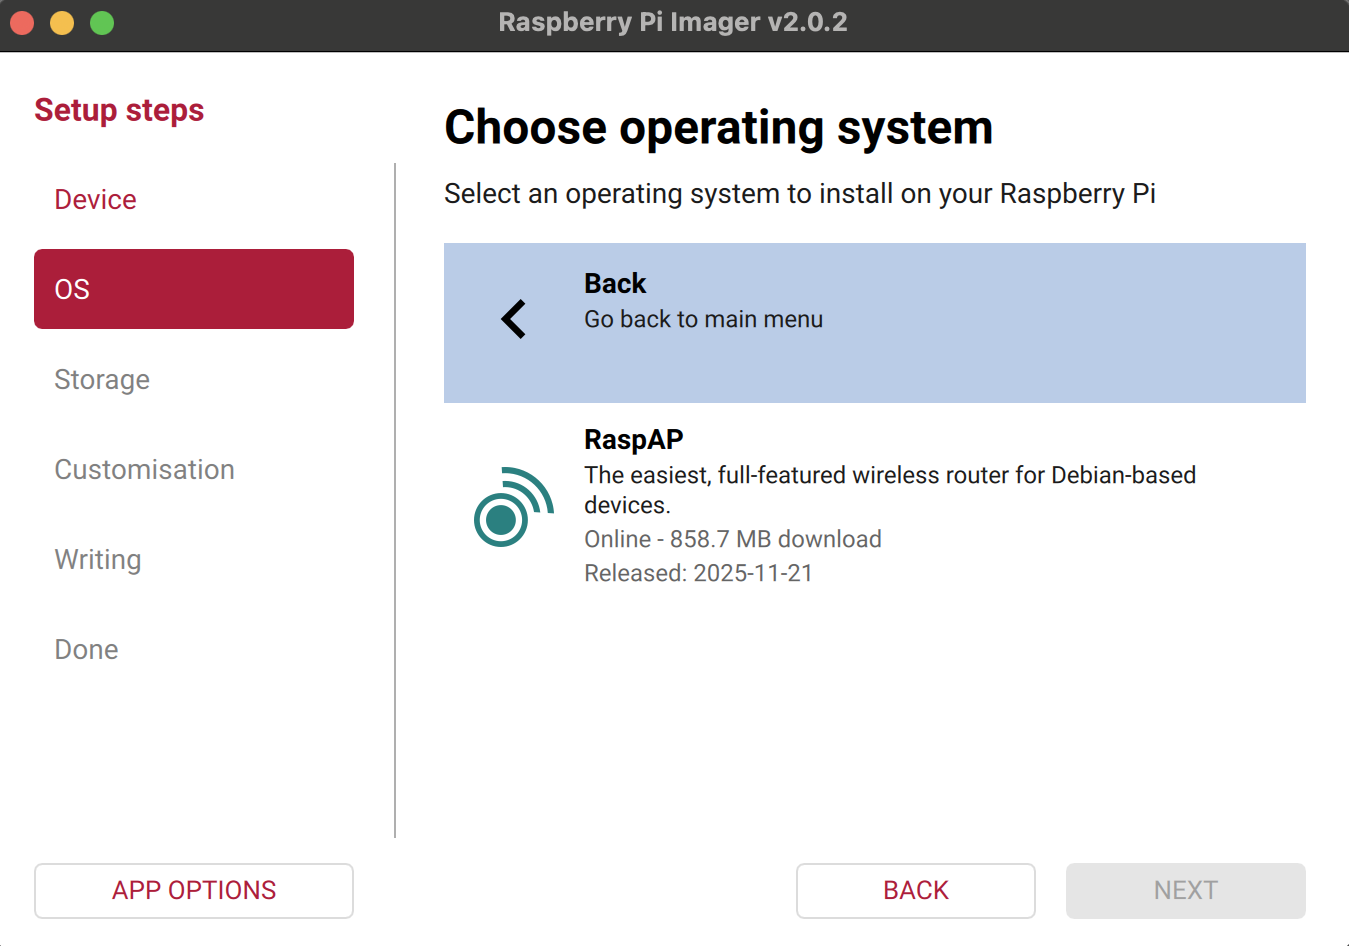
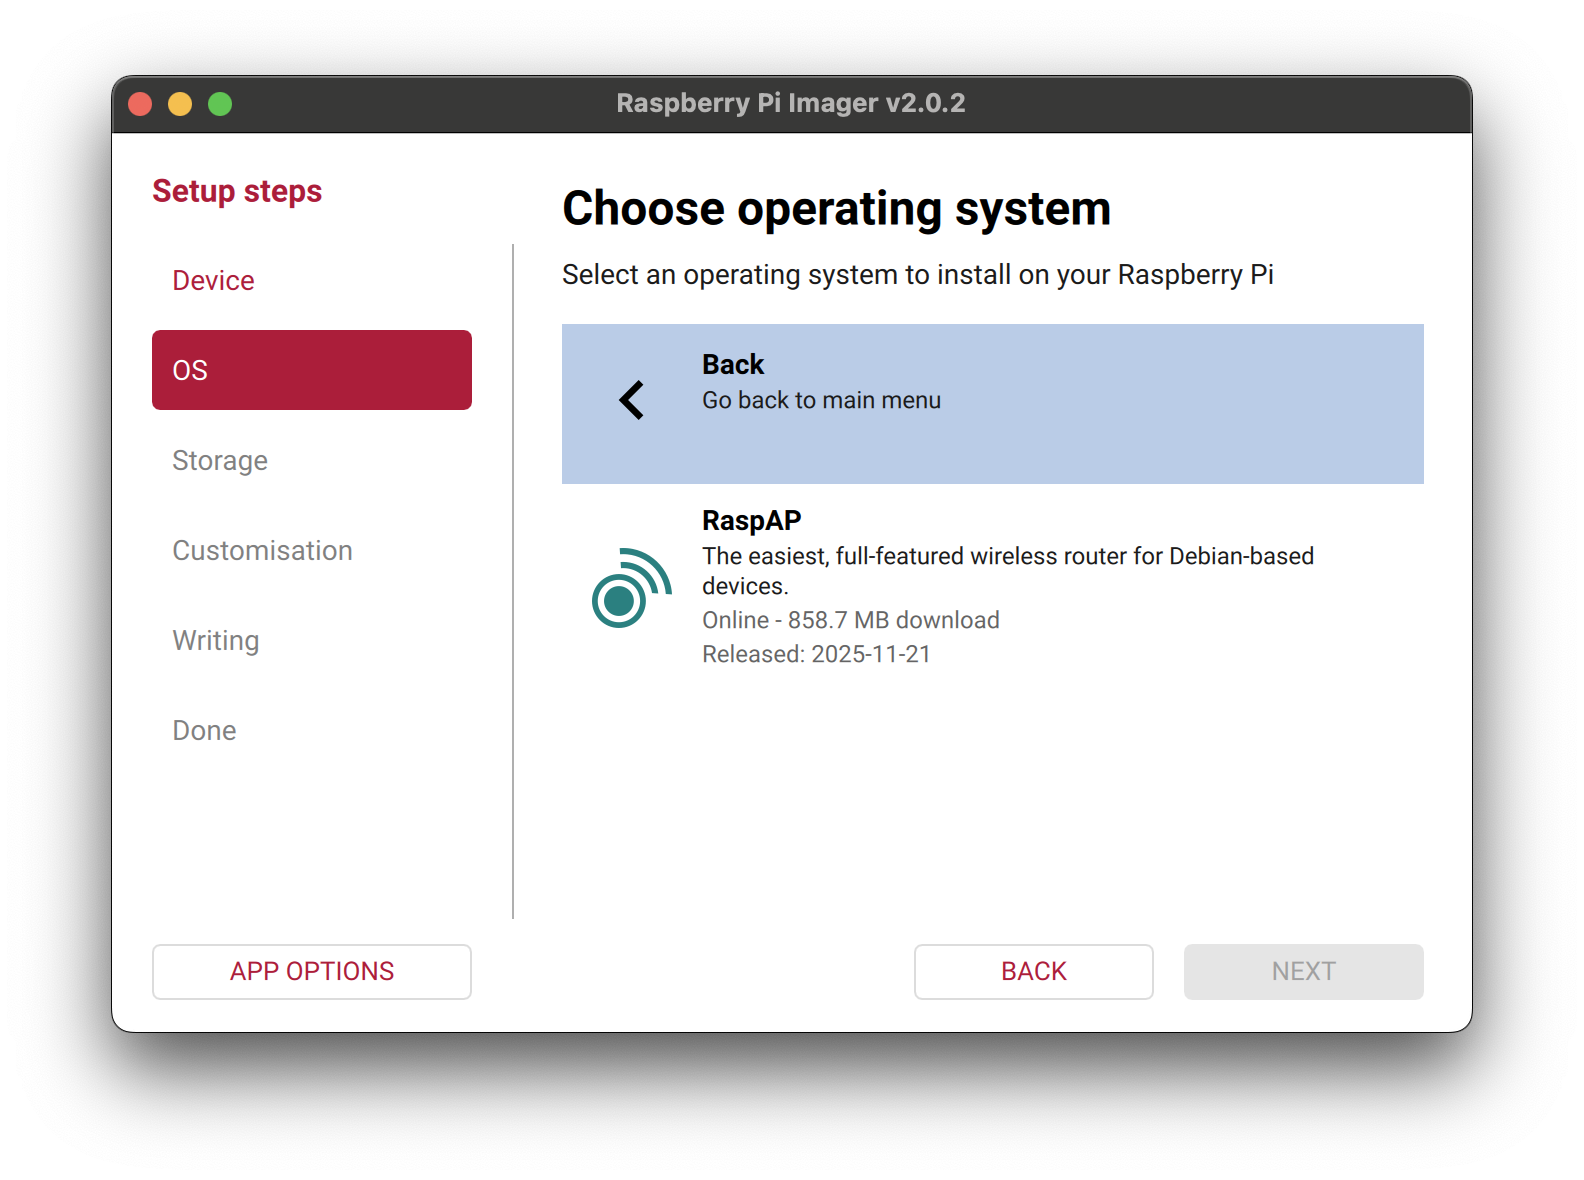
Update RPi imager

diff --git a/docs/quick-start.md b/docs/quick-start.md
@@ -11,7 +11,7 @@ RaspAP gives you two different ways to get up and running quickly. The simplest 
 ### Raspberry Pi Imager
 The easiest way to install RaspAP is by using the official [Raspberry Pi Imager](https://www.raspberrypi.com/software/). This method lets you select RaspAP directly from the "Other specific-purpose OS" category. You can also customize settings (hostname, username, password and SSH access) before flashing directly to your microSD card in one step.
 
-<img src="/assets/images/imager.png" style="max-width: 80%;" alt="Raspberry Pi Imager">
+<img src="/assets/images/imager.png" style="max-width: 90%;" alt="Raspberry Pi Imager">
 
 Simply download and launch Raspberry Pi Imager, choose **OS → Other specific-purpose OS → RaspAP**, select your preferred architecture (64-bit or 32-bit), and follow the prompts to configure and flash your card.
 